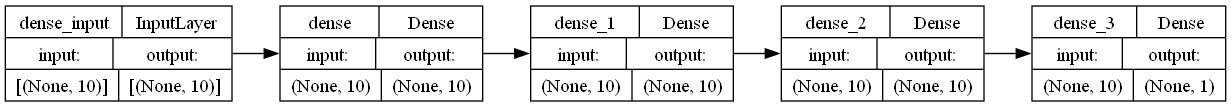
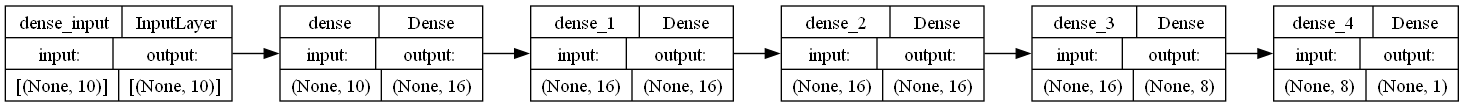
Changed the model

Changed region(s): [[0.0, 0.028, 1.0, 0.9533], [0.3087, 0.028, 0.4322, 0.0841]]

diff --git a/main.py b/main.py
@@ -78,22 +78,22 @@ def main():
     assert data.isnull().sum().sum() == 0
     assert data.isna().sum().sum() == 0
 
-
     
 
     # create a model to train on the data
     model = tf.keras.Sequential([
-        tf.keras.layers.Dense(10, activation='relu'),
-        tf.keras.layers.Dense(10, activation='relu'),
-        tf.keras.layers.Dense(10, activation='relu'),
-        tf.keras.layers.Dense(1)
+        tf.keras.layers.Dense(16, activation='relu'),
+        tf.keras.layers.Dense(16, activation='relu'),
+        tf.keras.layers.Dense(16, activation='relu'),
+        tf.keras.layers.Dense(8, activation='relu'),
+        tf.keras.layers.Dense(1, activation='sigmoid')
     ])
 
     model.compile(optimizer=tf.keras.optimizers.Adam(0.001),
-                loss='binary_crossentropy',
+                loss='mean_squared_error',
                 metrics=['accuracy'])
     
-    model.fit(data, target, epochs=128, batch_size=32)
+    model.fit(data, target, epochs=256, batch_size=32)
 
     tf.keras.utils.plot_model(model, to_file='model.png', show_shapes=True, show_layer_names=True, rankdir="LR", expand_nested=True, dpi=96)
 
@@ -111,11 +111,6 @@ def main():
 
     print(predictions)
 
-    
-
-    
-
-        
         
     
 
